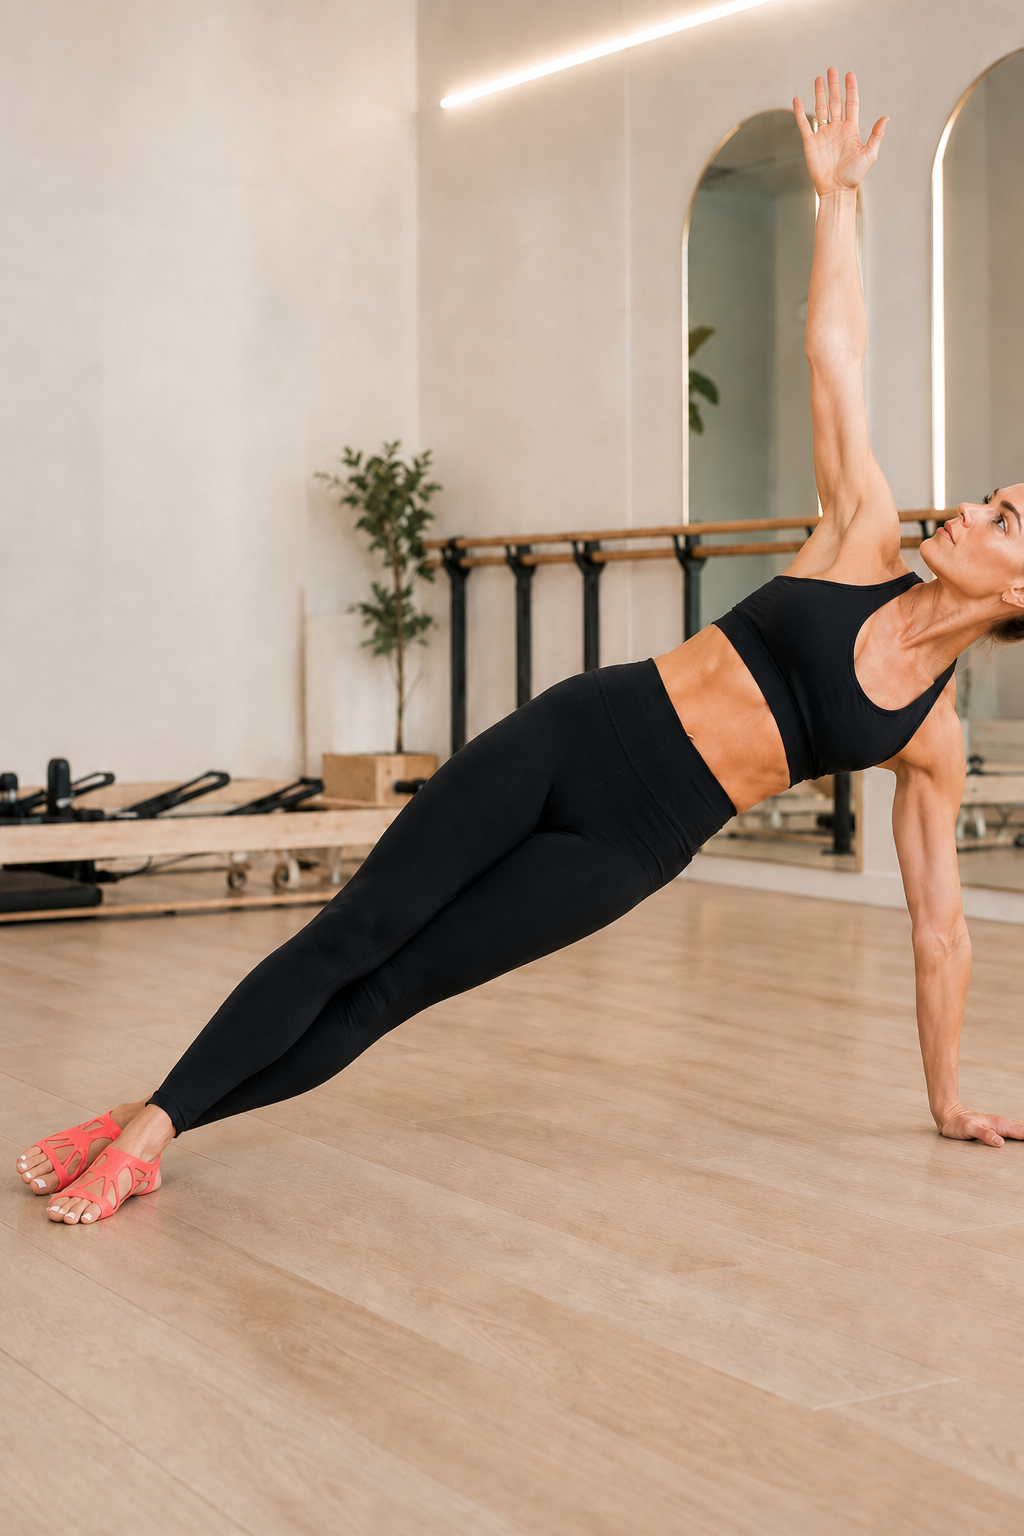
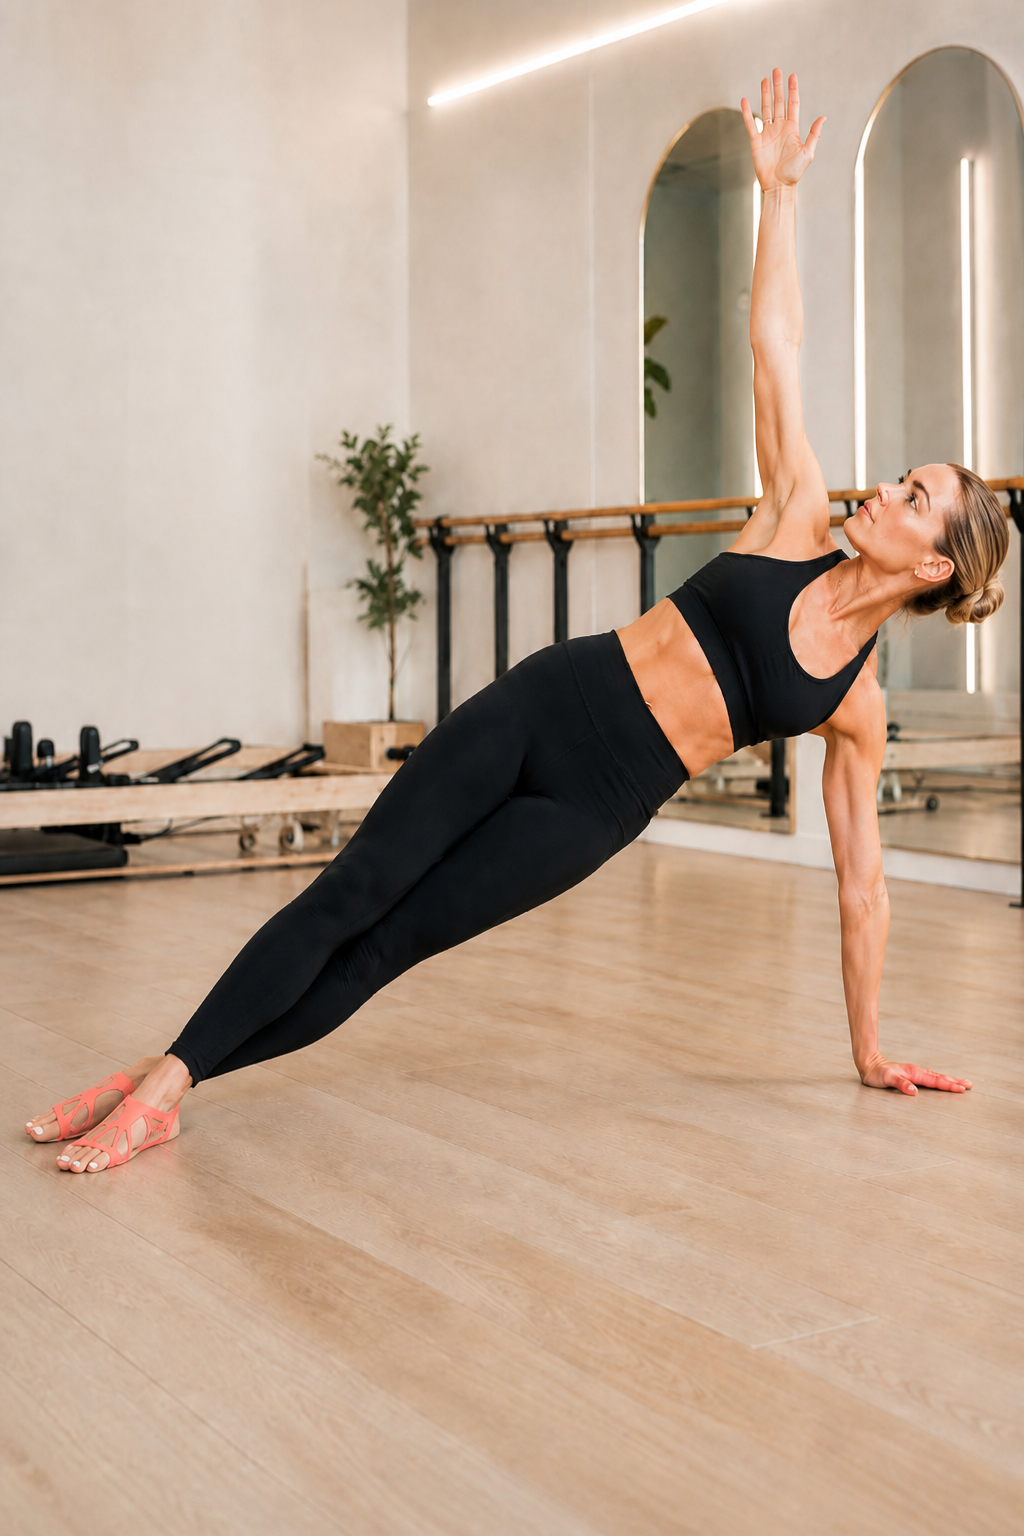
Fewer holes: match the homepage close-up — toe band, three openings, heel wrap.

diff --git a/.cursor/skills/barreletics-product-on-foot/SKILL.md b/.cursor/skills/barreletics-product-on-foot/SKILL.md
@@ -19,6 +19,7 @@ Andrew 2026-08-15: *look at existing images on feet. there are plenty of close u
 - Do **not** use `A14_TopBottom_*` / `Outside_Black` as the only shoe ref.
 - Do **not** feed a previous generated attempt as a shoe ref (it drifts).
 - If it does not match `refs/closeup-coral-putting-on.jpg` geometry → delete. One retry. Then stop.
+- **Too many holes = fail.** The real shoe is simple: toe band + **three** top openings + heel wrap. A busy lattice / extra side windows is a miss.
 
 ## Mandatory close-ups (in this skill)
 
@@ -45,7 +46,7 @@ CDN if you need a fresh download:
 From `closeup-coral-putting-on.jpg` and the customer top-views:
 
 1. **Toe band** — one horizontal band across the base of the toes. Toes stick out the front. Not a flip-flop thong. Not a closed sneaker toe.
-2. **Top of foot** — **three** openings: one center triangle + one on each side. That is the whole pattern. No extra lattice. No extra Y-straps.
+2. **Top of foot** — **only three** openings: one center + one on each side. That is the whole pattern. No extra lattice. No extra side windows. No cage of many holes.
 3. **Heel** — a wrap from the midfoot around the back of the heel. Small **white asterisk / dragonfly** on the outer heel.
 4. **Material** — one-piece thin matte polymer. Flush on skin. Sharp edges. Not melted. Not a sock. Not a sneaker.
 5. **Anatomy** — five toes. Normal ankle. No extra fingers.
